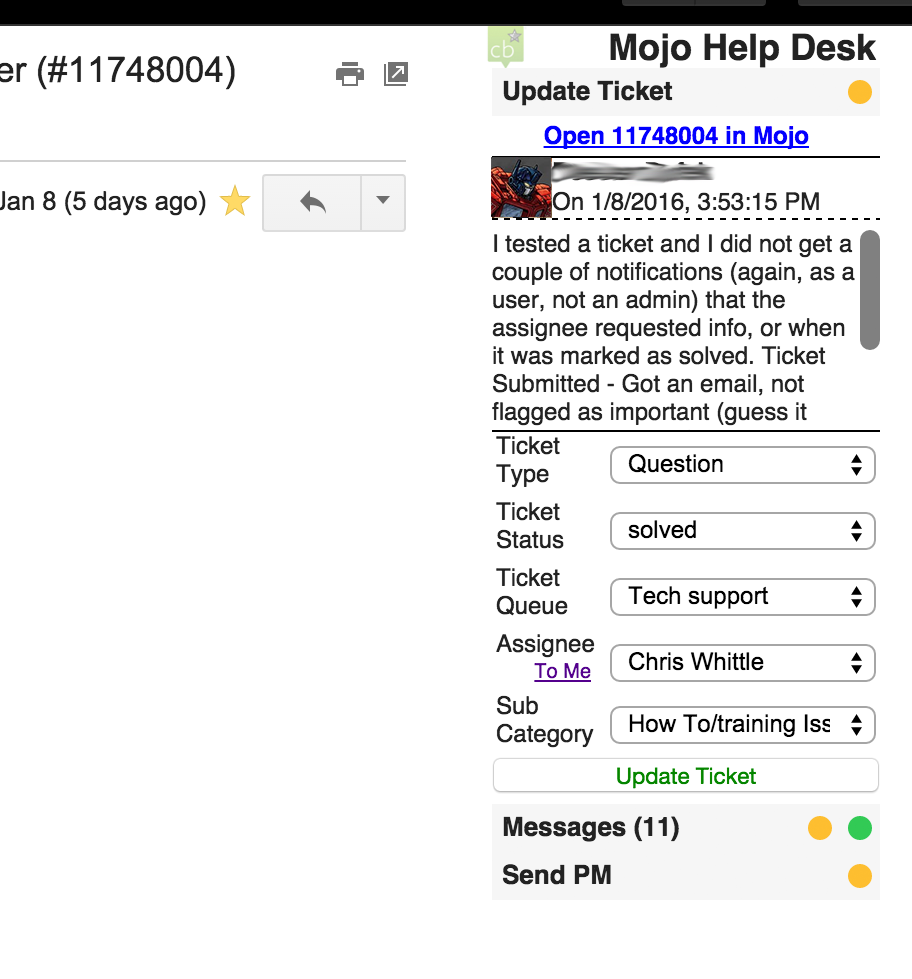
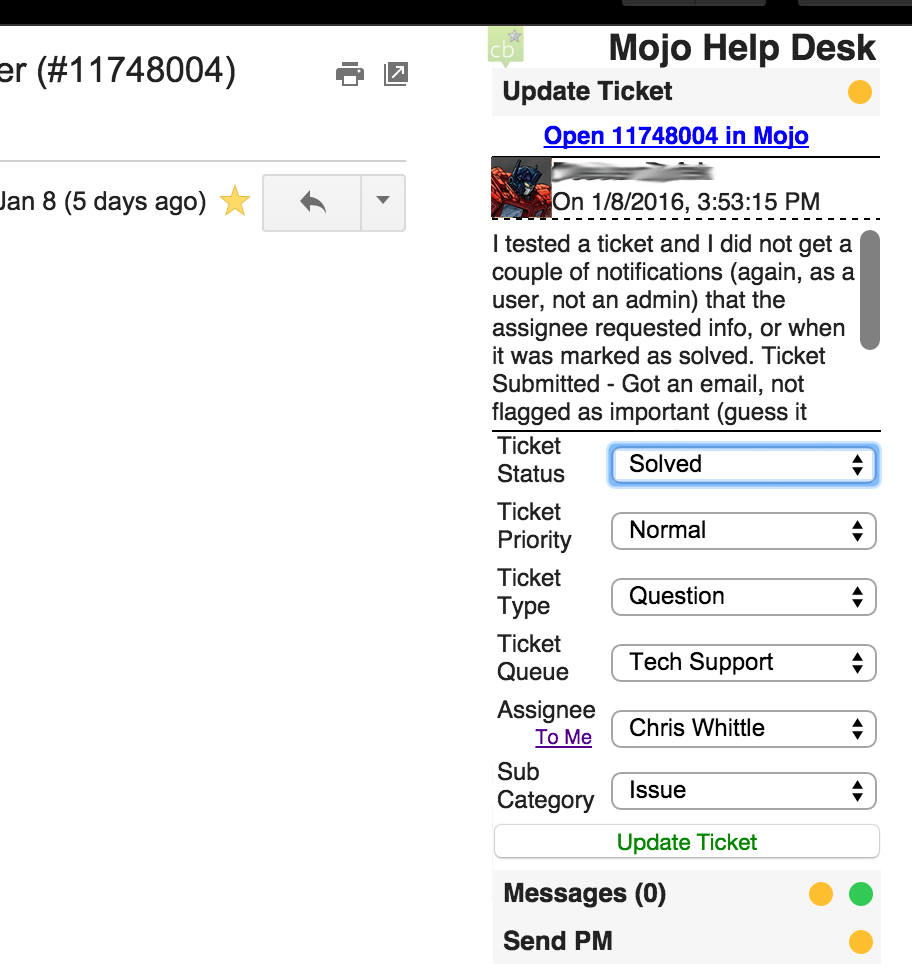
updated images and css to look better

Changed region(s): [[0.5219, 0.429, 0.9825, 0.9806], [0.6447, 0.429, 0.9825, 0.5516]]

diff --git a/components/forms/Ticket_Update_Form.js b/components/forms/Ticket_Update_Form.js
@@ -124,9 +124,9 @@ var Ticket_Update_Form = React.createClass({
             labelChild: assigned_to_me
         }, Shared.create_select("assigned_to_id", potential_assignees, this.state.assigned_to_id, "Please select Assignee", this.handleChange));
         var controls = [];
-        controls.push(ticket_type);
-        controls.push(ticket_priority);
         controls.push(ticket_status);
+        controls.push(ticket_priority);
+        controls.push(ticket_type);
         controls.push(ticket_queue);
         controls.push(ticket_assignee);
         var custom_controls = Shared.create_custom_fields(this.props.cb_mojo_ext, this, this.handleChange);

diff --git a/components/forms/forms.css b/components/forms/forms.css
@@ -20,7 +20,7 @@
 .mojo_gmail_sidebar {
     font-size: 12px;
     font-family: 'Open Sans', sans-serif;
-    height: 450px;
+    height: 475px;
     width: 200px;
     overflow: hidden;
     position: relative;
